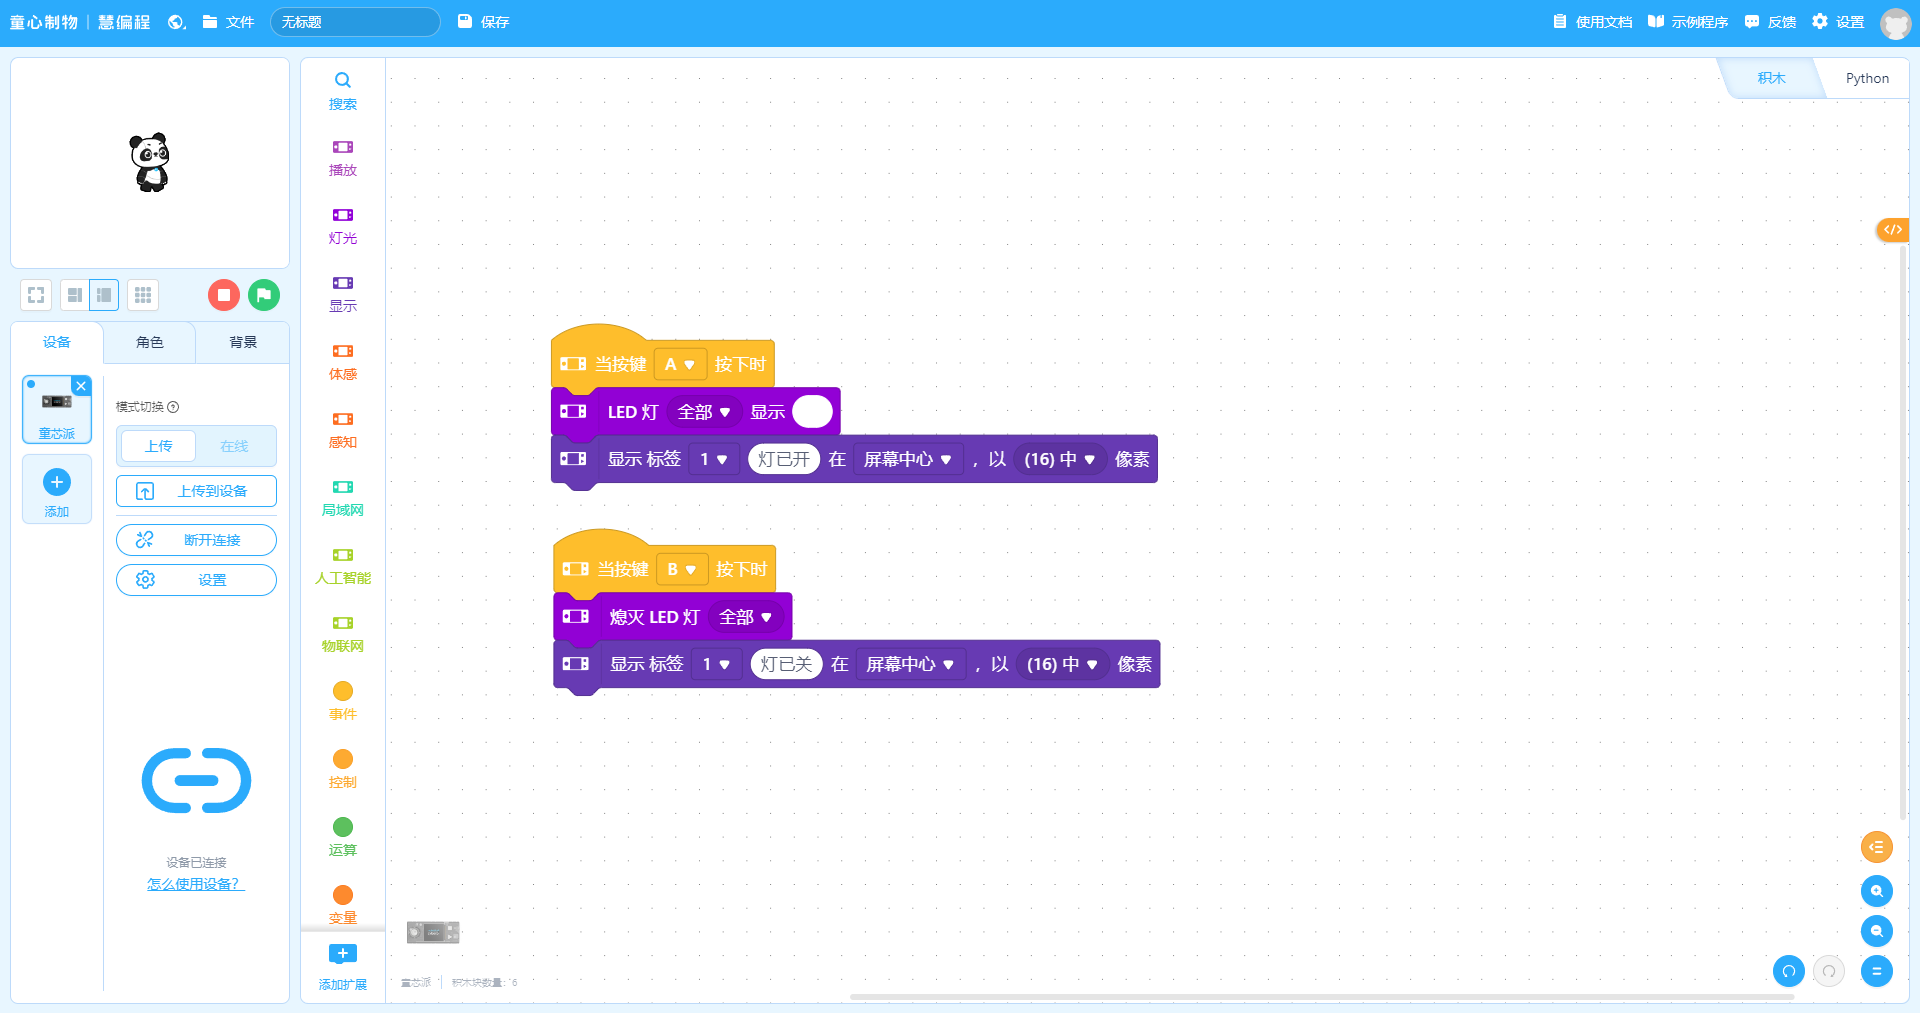
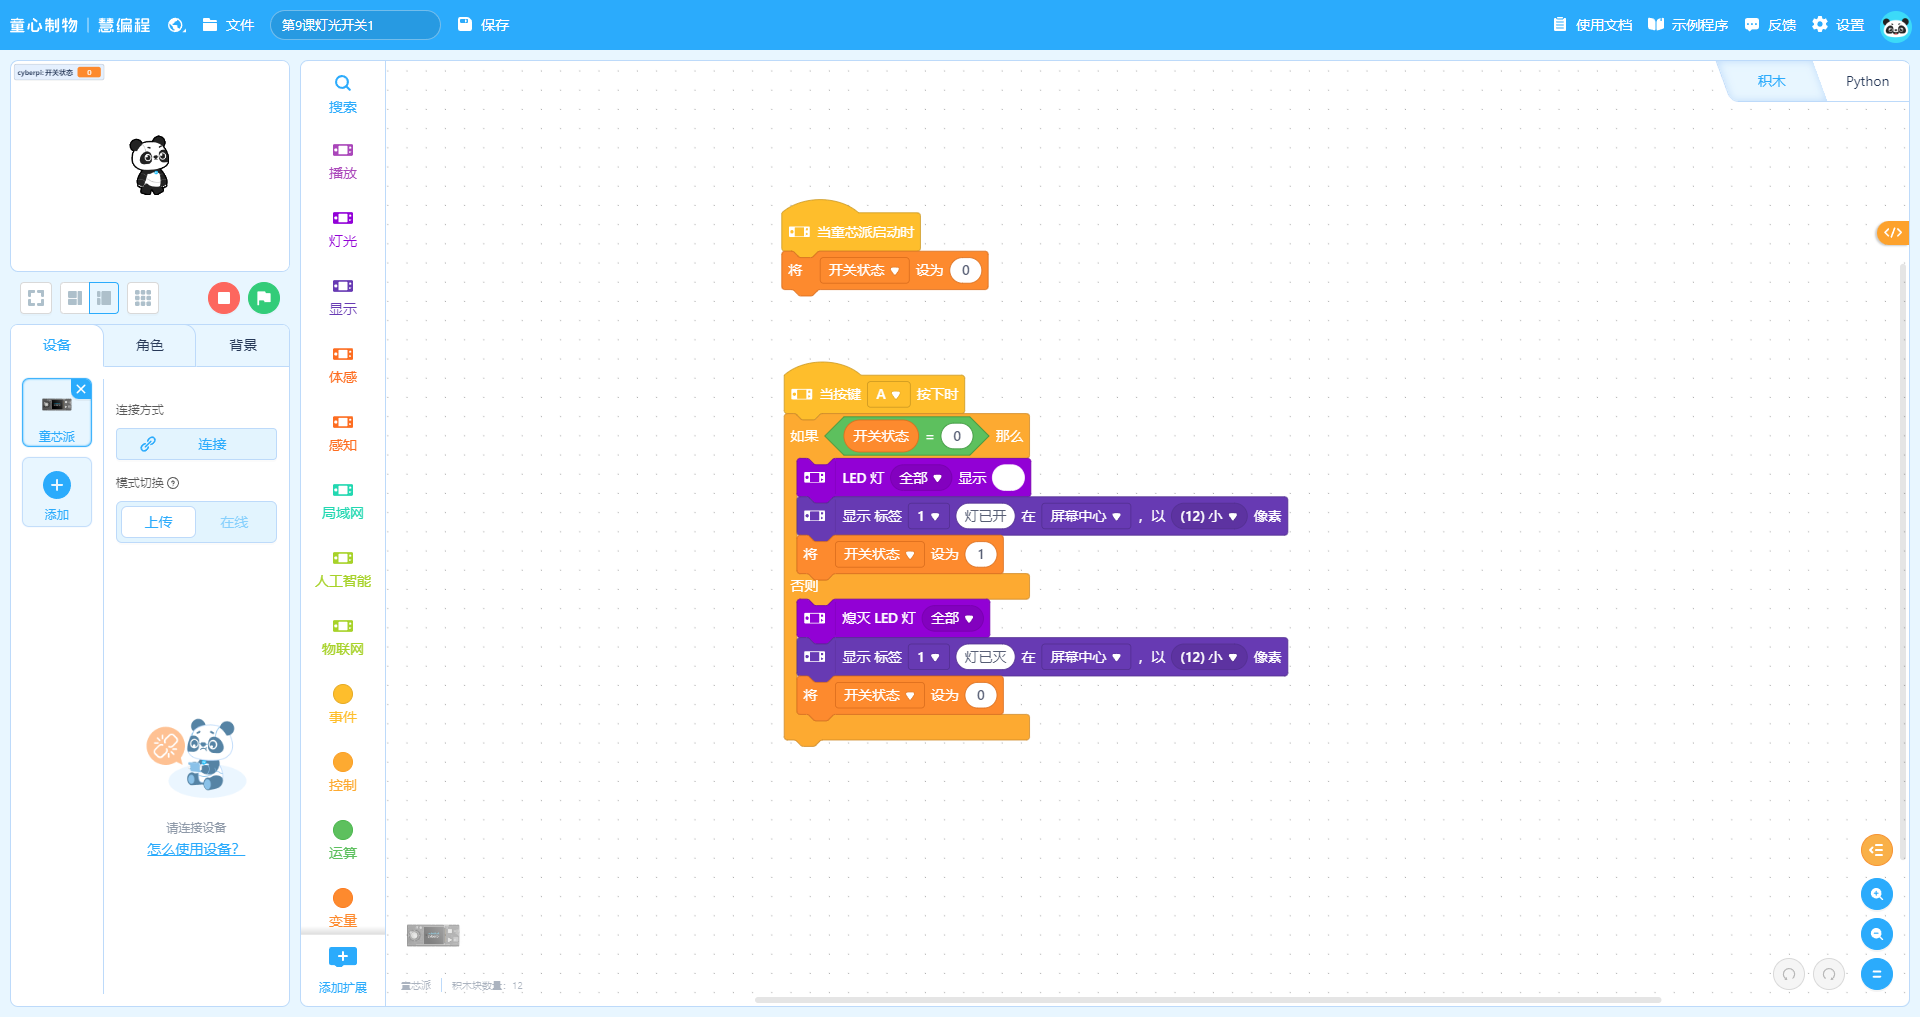
L9替换积木搭建示意图与任务答案截图（新版一键开关+挑战变色），标签统一为灯已灭

diff --git a/AI编程探险课_CyberPi/index.html b/AI编程探险课_CyberPi/index.html
@@ -1100,11 +1100,11 @@ const LESSONS_2 = [
   echoId:9, echoTitle:"灯的开关", echoBrief:"按一下开、再按一下关，条件分支让按钮变身智能开关",
   story:"团团的房间里有个小夜灯，按一下开关灯就亮，再按一下灯就灭。今天给CyberPi也装一个这样的智能开关：只用按钮A，按一下开灯、再按一下关灯。程序需要请出「如果…那么…否则」来判断开关当前的状态。",
   knowledge:["学会「如果…那么…否则」条件积木","用变量记录开关状态","理解条件分支的执行逻辑"],
-  blocks:[["事件", "当CyberPi启动时"], ["变量", "将 开关状态 设为 0"], ["事件", "当按键 A 按下时"], ["控制", "如果 开关状态 = 0 那么"], ["灯", "LED灯 全部 显示 白色"], ["显示", "显示标签「灯已开」"], ["变量", "将 开关状态 设为 1"], ["控制", "否则"], ["灯", "熄灭 LED灯 全部"], ["显示", "显示标签「灯已关」"], ["变量", "将 开关状态 设为 0"]],
+  blocks:[["事件", "当CyberPi启动时"], ["变量", "将 开关状态 设为 0"], ["事件", "当按键 A 按下时"], ["控制", "如果 开关状态 = 0 那么"], ["灯", "LED灯 全部 显示 白色"], ["显示", "显示标签「灯已开」"], ["变量", "将 开关状态 设为 1"], ["控制", "否则"], ["灯", "熄灭 LED灯 全部"], ["显示", "显示标签「灯已灭」"], ["变量", "将 开关状态 设为 0"]],
   projName:"智能灯光开关",
-  projEff:"启动后灯带熄灭；按A键一次灯带亮起白色并显示“灯已开”，再按一次灯带熄灭并显示“灯已关”，用一个按钮来回切换灯光开关。",
-  steps:["连接CyberPi并切换到上传模式", "建立变量「开关状态」，拖入「当CyberPi启动时」，把开关状态设为 0（表示灯关着）", "拖入「当按键 A 按下时」", "拖入「如果 开关状态 = 0 那么」：下面放「LED灯 全部 显示 白色」、「显示标签“灯已开”」、「将 开关状态 设为 1」", "再拖入「否则」：下面放「熄灭 LED灯 全部」、「显示标签“灯已关”」、「将 开关状态 设为 0」", "上传后连续按A键，观察灯带一亮一灭来回切换"],
-  challenge:"给开关加第二档：再按B键让灯变成黄色，想想「如果…那么…否则」怎么再套一层。",
+  projEff:"启动后灯带熄灭；按A键一次灯带亮起白色并显示“灯已开”，再按一次灯带熄灭并显示“灯已灭”，用一个按钮来回切换灯光开关。",
+  steps:["连接CyberPi并切换到上传模式", "建立变量「开关状态」，拖入「当CyberPi启动时」，把开关状态设为 0（表示灯关着）", "拖入「当按键 A 按下时」", "拖入「如果 开关状态 = 0 那么」：下面放「LED灯 全部 显示 白色」、「显示标签“灯已开”」、「将 开关状态 设为 1」", "再拖入「否则」：下面放「熄灭 LED灯 全部」、「显示标签“灯已灭”」、「将 开关状态 设为 0」", "上传后连续按A键，观察灯带一亮一灭来回切换"],
+  challenge:"给开关加第二档：按B键让灯变成黄色，再按B键变回白色。想想需要第二个变量「变色开关」和「如果…那么…否则」怎么配合。",
   tip:"「如果…那么…否则」让程序看条件做选择：条件成立走「那么」，不成立走「否则」。变量「开关状态」负责记住灯现在是开还是关，程序才能判断该开灯还是关灯。",
   hardware:["CyberPi / 童芯派","Type-C 数据线","按钮A、按钮B","RGB灯带","电脑"],
   quiz:[{q:"按一下灯亮、再按一下灯灭，CyberPi靠什么记住灯现在是开还是关？",o:["变量","按钮","灯带","屏幕"],a:0,exp:"变量「开关状态」负责记录灯的状态，程序才能判断。"},{q:"“如果…那么…否则”属于哪个分类？",o:["事件","控制","显示","声音"],a:1,exp:"「如果…那么…否则」在控制分类里，让程序根据条件做选择。"},{q:"灯亮时程序会把「开关状态」设为多少？",o:["0","1","2","100"],a:1,exp:"亮灯后把「开关状态」设为1，下次按A就知道灯开着，改去关灯。"}]
@@ -1448,7 +1448,7 @@ const CURRICULUM_REFINEMENTS = {
   6:{meaning:"传感器把环境信息变成数字，程序读取并显示数值。感知真实世界是硬件编程的核心。",observe:"用手挡住光线传感器，数值变大了还是变小了？手电照呢？",hook:"团团用手挡住CyberPi，屏幕上的数字变小了，它怎么“看见”光的？",goal:"CyberPi启动后循环读取光线强度并实时显示在屏幕上。",watch:"用手电照一照、用手挡一挡，看着屏幕数值变化，找出规律。",transfer:{name:"教室亮度计",eff:"测量教室三个位置的光线亮度，比较哪里最亮。",steps:["复制光线测量仪程序","在窗边测量并记录数值","在教室中间测量并记录","在背光角落测量并记录","比较三个数值，说说哪里最适合读书"],challenge:"自动小夜灯程序设计：结合灯光，光线暗时让灯自动亮起（用条件积木）。"}},
   7:{meaning:"麦克风把声音大小变成数字（响度），程序读取并显示。学会读取传感器数值是感知环境的基础。",observe:"说话和拍手时，响度数值分别是多少？哪个更大？",hook:"点点对着CyberPi喊了一声，屏幕数字跳得好高，它“听见”了什么？",goal:"CyberPi启动后循环读取声音响度并实时显示在屏幕上。",watch:"轻声说话、大声喊、拍手，看看数值怎么变，记住每个动作的“分数”。",transfer:{name:"声音冠军赛",eff:"和同学比赛：谁的声音能让响度数值最高？",steps:["复制声音测量仪程序","同学A大声喊出自己名字，记录最高数值","同学B接着喊，记录最高数值","比较两人成绩，宣布声音冠军","再试唱歌、拍手等不同方式"],challenge:"设置一个“目标分数”（如80），达到时让灯亮一下。"}},
   8:{meaning:"陀螺仪能测量X、Y、Z三个轴的转动角度，理解设备在空间中的姿态。多传感器数据可同时显示。",observe:"左右倾斜时X轴怎么变？前后倾斜时Y轴怎么变？",hook:"团团把CyberPi转来转去，屏幕数字跟着变，它怎么知道自己怎么转的？",goal:"CyberPi启动后交替显示X轴和Y轴的转动角度，随设备倾斜实时变化。",watch:"前后左右倾斜CyberPi，看X、Y轴数字的变化方向，找出规律。",transfer:{name:"水平仪",eff:"做一个水平仪：设备放平时显示“平”，倾斜时显示“歪”。",steps:["复制平衡测量仪程序","读取X轴角度并显示","用如果积木判断：角度小于10显示“平”","角度大于10显示“歪”","上传后放平、倾斜测试"],challenge:"增加Z轴显示，看看转圈时Z轴怎么变化。"}},
-  9:{meaning:"事件+条件分支：变量记录开关状态，按A键一次亮、再按一次灭。「如果…那么…否则」根据状态选择亮灯还是熄灯。",observe:"连续按A：灯亮→灯灭→灯亮。如果忘了更新「开关状态」变量会怎样？",hook:"团团的房间里有个小夜灯，按一下亮、再按一下灭。CyberPi的智能开关怎么装？",goal:"用变量记录开关状态，按A键一次开灯、再按一次关灯，配合「如果…那么…否则」条件判断。",watch:"连续按A键，看灯带一亮一灭来回切换，屏幕同步显示“灯已开/灯已关”。",transfer:{name:"魔法台灯",eff:"把智能开关改造成三档台灯：按A开灯关灯，按B切换颜色。",steps:["复制智能灯光开关程序","按B键让灯变成黄色（用「如果…那么…否则」判断）","再按B键变回白色","上传后按A开灯、按B换颜色","观察颜色切换效果"],challenge:"让灯亮起时同时播放一个声音。"}},
+  9:{meaning:"事件+条件分支：变量记录开关状态，按A键一次亮、再按一次灭。「如果…那么…否则」根据状态选择亮灯还是熄灯。",observe:"连续按A：灯亮→灯灭→灯亮。如果忘了更新「开关状态」变量会怎样？",hook:"团团的房间里有个小夜灯，按一下亮、再按一下灭。CyberPi的智能开关怎么装？",goal:"用变量记录开关状态，按A键一次开灯、再按一次关灯，配合「如果…那么…否则」条件判断。",watch:"连续按A键，看灯带一亮一灭来回切换，屏幕同步显示“灯已开/灯已灭”。",transfer:{name:"魔法台灯",eff:"把智能开关改造成三档台灯：按A开灯关灯，按B切换颜色。",steps:["复制智能灯光开关程序","按B键让灯变成黄色（用「如果…那么…否则」和变量「变色开关」判断）","再按B键变回白色","上传后按A开灯、按B换颜色","观察颜色切换效果"],challenge:"让灯亮起时同时播放一个声音。"}},
   10:{meaning:"多路事件输入：摇杆上/下/左/右/按压对应不同输出。每个方向是独立事件，程序像遥控器一样响应每条指令。",observe:"上拨摇杆灯光变亮，下拨变暗；如果改成左右拨动，程序会怎样？",hook:"团团想用摇杆给CyberPi的灯带当调光旋钮：上拨变亮、下拨变暗！",goal:"上拨摇杆亮度增加10%，下拨摇杆亮度减少10%，用摇杆控制灯光亮暗。",watch:"上拨→变亮，下拨→变暗；连拨几下看看亮度停在哪个范围。",transfer:{name:"方向指挥灯",eff:"四个方向分别点亮1-4号LED灯（红/蓝/绿/黄），做一盏方向指挥灯。",steps:["复制摇杆调光器程序","添加四个摇杆方向事件：向↑/↓/←/→拨动 时","分别放入「LED灯 1/2/3/4 显示」，颜色选红、蓝、绿、黄","上传后拨动四个方向，看对应编号的灯亮起","试试再给每个方向配一种音效，闭眼听声音猜方向"],challenge:"按压摇杆时让四颗灯依次点亮一圈再熄灭。"}},
   11:{meaning:"循环结构让一组积木反复执行。循环+颜色轮转=彩虹灯效。循环是编程最重要的结构之一。",observe:"循环里的积木按什么顺序反复执行？红绿蓝循环一次要多久？",hook:"点点想要一条彩虹，CyberPi的灯带能变成流动的彩虹吗？",goal:"让RGB灯带在红、绿、蓝之间循环切换，每种颜色停留1秒。",watch:"看灯带颜色循环：红→绿→蓝→红→绿→蓝……数数一次循环要几秒。",transfer:{name:"五色彩虹",eff:"在红绿蓝基础上增加紫色和橙色，做一条五色彩虹。",steps:["复制彩虹变色灯程序","在蓝色后面增加紫色（红+蓝）亮1秒","再增加橙色（红+黄）亮1秒","调整等待时间让彩虹更流畅","上传观察五色循环"],challenge:"让彩虹方向反过来（蓝→绿→红）。"}},
   12:{meaning:"RGB灯带5颗灯有编号，可以单独控制。循环+灯带索引=跑马灯效果。",observe:"5颗灯按什么顺序亮起？从1到5还是从5到1？",hook:"团团和点点玩接力赛，灯带上的5颗灯能不能也来一场接力？",goal:"让5颗灯依次亮起红色（1→2→3→4→5），然后全部熄灭，循环成跑马灯。",watch:"看灯光从第1颗跑到第5颗，像马儿跑步一样。",transfer:{name:"倒着跑的马",eff:"让跑马灯反向跑：从第5颗亮到第1颗。",steps:["复制跑马灯程序","把亮灯顺序改成5→4→3→2→1","每颗灯亮起后等待0.3秒","上传观察反向跑马灯","再试试来回跑"],challenge:"让跑马灯每轮换一种颜色。"}},
